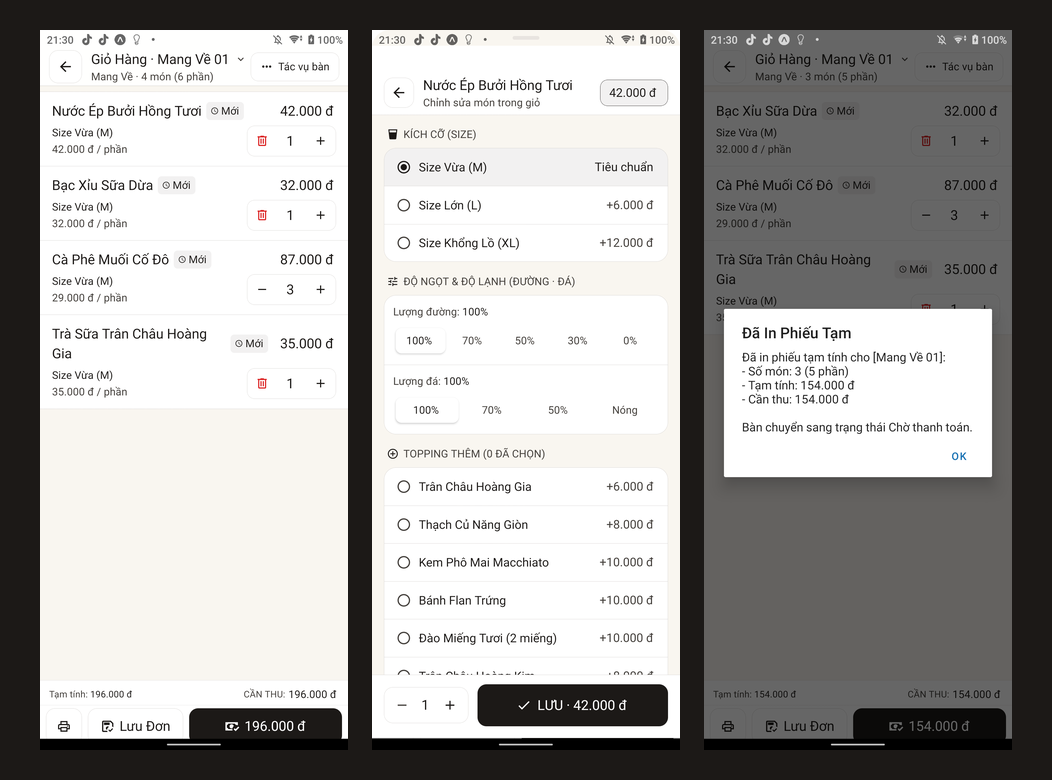
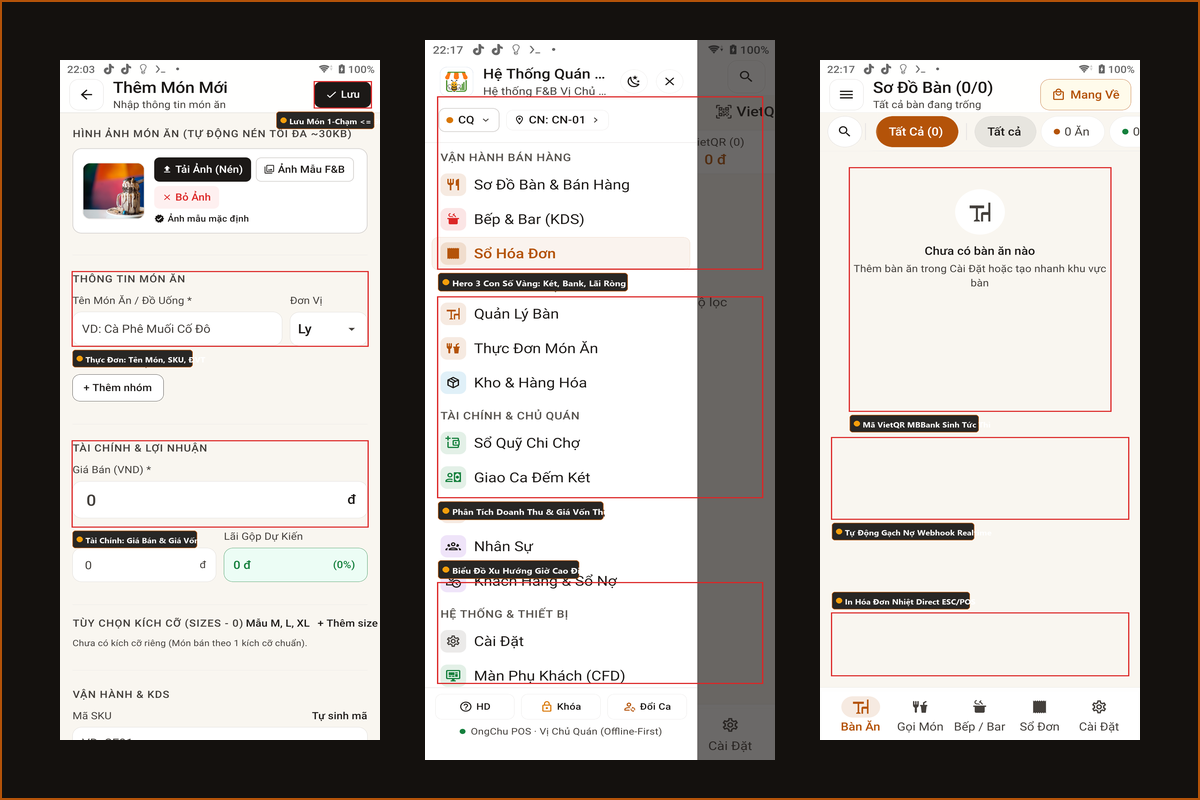
docs: publish real device annotated screenshots and comprehensive operational showcase

diff --git a/README.md b/README.md
@@ -1,7 +1,7 @@
 # OngChu POS — Lean F&B Point of Sale Platform
 
 <p align="center">
-  <img src="screenshots/hero_banner_trio.png" alt="OngChu POS Tri-Screen Showcase" width="860"/>
+  <img src="screenshots/hero_banner_trio.png" alt="OngChu POS Tri-Screen Showcase" width="920"/>
 </p>
 
 <p align="center">
@@ -9,74 +9,95 @@
   <a href="https://app.ongchu.cloud"><img src="https://img.shields.io/badge/Production%20App-app.ongchu.cloud-b45309?style=flat-square" alt="Live App"/></a>
   <a href="https://github.com/nguyenlocthanh796/duangoimon/releases"><img src="https://img.shields.io/badge/Release-v2.0.0-15803d?style=flat-square" alt="Release"/></a>
   <img src="https://img.shields.io/badge/Architecture-Dual--Theme%20Universal-44403c?style=flat-square" alt="Architecture"/>
-  <img src="https://img.shields.io/badge/License-Commercial%20%2F%20Proprietary-blue?style=flat-square" alt="License"/>
+  <img src="https://img.shields.io/badge/Hardware-Direct%20ESC%2FPOS%209100-b45309?style=flat-square" alt="Hardware"/>
 </p>
 
 ---
 
-## 1. Executive Summary
+## 1. Tổng Quan Hệ Thống (Executive Summary)
 
-**OngChu POS** is an enterprise-grade, ultra-lightweight Point-of-Sale and management ecosystem built specifically for F&B businesses, including Cafes, Milk Tea Shops, Restaurants, Quick-Service Counters, and Multi-Branch Chains.
+**OngChu POS** là hệ sinh thái quản lý và bán hàng điểm bán (Point-of-Sale) chuyên sâu dành riêng cho ngành F&B (Nhà hàng, Quán Cà Phê, Trà Sữa, Quán Ăn, Tiệm Bánh và Chuỗi Đa Chi Nhánh). 
 
-Designed around the **"Zero-Gov / Lean Operator"** philosophy, the system eliminates administrative friction while enforcing absolute cash security, real-time audit trails, and sub-second touch latency.
+Hệ thống được thiết kế theo triết lý **"Vị Chủ Quán (Zero-Gov & Lean Operator)"** — tối giản hóa thao tác, tốc độ cảm ứng dưới 50ms, kiểm soát dòng tiền chặt chẽ và phòng chống gian lận nội bộ tuyệt đối.
 
-- **Web POS**: [https://app.ongchu.cloud](https://app.ongchu.cloud) (Instant deployment, zero installation required)
-- **Windows Native**: Ultra-light ~12MB standalone binary with minimal RAM footprint (<20MB)
-- **Mobile & Tablet**: High-performance 60 FPS Native engine across iOS and Android
-
----
-
-## 2. Core Operational Pillars
-
-| Pillar | Technical Implementation | Operational Value |
-|---|---|---|
-| **1-Touch Ordering** | Multi-table state machine with instant seat/order switching | Order processing and bill split execution under 3 seconds |
-| **Instant Petty Cash (`/so-quy`)** | Real-time petty expense journal with auto-ledgering | Direct cash-out tracking (ice, fresh produce, salary advances) |
-| **Cash Drawer Audit (`/giao-ca`)** | Exact cash counting and shift balance reconciliation | Instant variance detection and automatic shift handover reporting |
-| **3 Golden Numbers P&L (`/bao-cao-loi-nhuan`)** | Real-time formula: `Drawer Cash` + `Bank VietQR` = `Net Profit` | Zero-latency financial clarity without complex accounting delays |
-| **Direct ESC/POS Thermal Printing** | Native Raw TCP Socket (Port 9100) with RJ11 pulse triggers | Driverless LAN printing (K80/K58) and automated paper cutting |
-| **Active Anti-Fraud Engine** | Real-time Telegram goroutine alerts on high-risk events | Instant notification for voided items, high discounts (>20%), and manual drawer kicks |
+- **Web POS Trực Tiếp**: [https://app.ongchu.cloud](https://app.ongchu.cloud) (Sử dụng tức thì, không cần cài đặt)
+- **Cổng Thông Tin Giải Pháp**: [https://ongchu.cloud](https://ongchu.cloud)
+- **Bản Cài Đặt Desktop Windows**: Ứng dụng native siêu nhẹ ~12MB, RAM tiêu thụ <20MB
+- **Bản Cài Đặt Android Native**: Tương thích mọi dòng máy POS cầm tay và Tablet Android
 
 ---
 
-## 3. Visual Interface Showcase
+## 2. 6 Trụ Cột Kỹ Thuật & Vận Hành Bất Biến
+
+| # | Trụ Cột | Hiện Thực Kỹ Thuật | Giá Trị Thực Chiến |
+|---|---|---|---|
+| **1** | **Bán Hàng 1-Chạm** | Máy trạng thái giỏ hàng đa bàn, chuyển bàn/gộp bàn tức thì | Tốc độ gọi món, in bếp và thanh toán dưới 3 giây |
+| **2** | **Sổ Quỹ Chi Chợ 3s (`/so-quy`)** | Nhật ký dòng tiền chi nhanh, tự động trừ két tiền | Ghi nhận chi đá, rau, thịt, ứng lương nhân viên tức thì |
+| **3** | **Giao Ca Đếm Két 30s (`/giao-ca`)** | Bảng đếm mệnh giá tiền mặt, đối soát lệch tiền tự động | Khóa ca chính xác, Telegram gửi cảnh báo khi lệch tiền |
+| **4** | **Báo Cáo 3 Con Số Vàng (`/bao-cao-loi-nhuan`)** | Công thức: `Tiền Trong Két` + `Tiền Trong Bank` = `Lợi Nhuận Ròng` | Chủ quán nắm rõ tài chính tức thì, không cần đợi kế toán |
+| **5** | **In Nhiệt Direct ESC/POS** | Raw TCP Socket (Port 9100) kích mở két RJ11 không cần driver | Tốc độ in bill K80/K58 tức thì, tự động cắt giấy |
+| **6** | **Chống Gian Lận Độc Lập** | Goroutine kiểm soát ngầm, gửi cảnh báo Telegram tức thời | Báo động khi hủy món sau in tạm tính, chiết khấu >20%, mở két tay |
+
+---
+
+## 3. Bộ Ảnh Chụp Thực Tế & Hướng Dẫn Chi Tiết (Real Device Annotated Showcase)
+
+Toàn bộ ảnh giao diện bên dưới được chụp trực tiếp từ thiết bị thật với các nhãn chỉ dẫn viền cam/đỏ trực quan:
 
 <div align="center">
   <table>
     <tr>
       <td width="25%" align="center">
-        <img src="screenshots/03_pos_so_do_ban.png" alt="Table Layout" width="100%"/><br/>
-        <sub><b>Table Matrix</b></sub>
+        <a href="screenshots/01_pos_table_overview.png"><img src="screenshots/01_pos_table_overview.png" alt="Sơ Đồ Bàn Ăn" width="100%"/></a><br/>
+        <sub><b>1. Sơ Đồ Bàn Ăn Realtime</b></sub>
       </td>
       <td width="25%" align="center">
-        <img src="screenshots/05_pos_thuc_don_mon_an.png" alt="Menu Ordering" width="100%"/><br/>
-        <sub><b>Menu Ordering</b></sub>
+        <a href="screenshots/02_pos_menu_ordering.png"><img src="screenshots/02_pos_menu_ordering.png" alt="Thực Đơn & Món Ăn" width="100%"/></a><br/>
+        <sub><b>2. Thực Đơn & Giá Vốn</b></sub>
       </td>
       <td width="25%" align="center">
-        <img src="screenshots/11_thanh_toan_tien_mat_numpad.png" alt="Cash Numpad" width="100%"/><br/>
-        <sub><b>Cash Numpad</b></sub>
+        <a href="screenshots/03_pos_modifier_toppings.png"><img src="screenshots/03_pos_modifier_toppings.png" alt="Tùy Chọn Topping" width="100%"/></a><br/>
+        <sub><b>3. Size & Topping Món</b></sub>
       </td>
       <td width="25%" align="center">
-        <img src="screenshots/12_thanh_toan_vietqr_napas247.png" alt="Dynamic VietQR" width="100%"/><br/>
-        <sub><b>VietQR Payment</b></sub>
+        <a href="screenshots/04_pos_cart_tray.png"><img src="screenshots/04_pos_cart_tray.png" alt="Giỏ Hàng Đa Bàn" width="100%"/></a><br/>
+        <sub><b>4. Giỏ Hàng Đa Bàn</b></sub>
       </td>
     </tr>
     <tr>
       <td width="25%" align="center">
-        <img src="screenshots/13_kds_tong_quan.png" alt="KDS Station" width="100%"/><br/>
-        <sub><b>KDS Kitchen</b></sub>
+        <a href="screenshots/05_pos_numpad_cash.png"><img src="screenshots/05_pos_numpad_cash.png" alt="Numpad Tiền Mặt" width="100%"/></a><br/>
+        <sub><b>5. Numpad Đếm Tiền Mặt</b></sub>
       </td>
       <td width="25%" align="center">
-        <img src="screenshots/18_so_quy_tao_phieu_chi_3s.png" alt="Petty Cash" width="100%"/><br/>
-        <sub><b>Petty Cash Ledger</b></sub>
+        <a href="screenshots/06_pos_dynamic_vietqr.png"><img src="screenshots/06_pos_dynamic_vietqr.png" alt="VietQR Động" width="100%"/></a><br/>
+        <sub><b>6. Mã VietQR Động NAPAS</b></sub>
       </td>
       <td width="25%" align="center">
-        <img src="screenshots/20_giao_ca_tong_ket_ca.png" alt="Shift Closing" width="100%"/><br/>
-        <sub><b>Shift Audit</b></sub>
+        <a href="screenshots/07_pos_kds_kitchen.png"><img src="screenshots/07_pos_kds_kitchen.png" alt="Bếp Bar KDS" width="100%"/></a><br/>
+        <sub><b>7. Bếp / Bar KDS Vé Món</b></sub>
       </td>
       <td width="25%" align="center">
-        <img src="screenshots/21_bao_cao_3_con_so_vang.png" alt="P&L Report" width="100%"/><br/>
-        <sub><b>P&L 3 Numbers</b></sub>
+        <a href="screenshots/08_pos_invoices_history.png"><img src="screenshots/08_pos_invoices_history.png" alt="Sổ Đơn Hóa Đơn" width="100%"/></a><br/>
+        <sub><b>8. Sổ Đơn & In Lại Bill</b></sub>
+      </td>
+    </tr>
+    <tr>
+      <td width="25%" align="center">
+        <a href="screenshots/09_pos_cashflow_expenses.png"><img src="screenshots/09_pos_cashflow_expenses.png" alt="Sổ Quỹ Chi Chợ" width="100%"/></a><br/>
+        <sub><b>9. Sổ Quỹ Chi Chợ 3s</b></sub>
+      </td>
+      <td width="25%" align="center">
+        <a href="screenshots/10_pos_shift_handover.png"><img src="screenshots/10_pos_shift_handover.png" alt="Giao Ca Đếm Két" width="100%"/></a><br/>
+        <sub><b>10. Giao Ca Két Tiền 30s</b></sub>
+      </td>
+      <td width="25%" align="center">
+        <a href="screenshots/11_pos_pnl_report.png"><img src="screenshots/11_pos_pnl_report.png" alt="Báo Cáo Lợi Nhuận" width="100%"/></a><br/>
+        <sub><b>11. Báo Cáo 3 Con Số Vàng</b></sub>
+      </td>
+      <td width="25%" align="center">
+        <a href="screenshots/12_pos_settings_printer.png"><img src="screenshots/12_pos_settings_printer.png" alt="Cài Đặt Máy In" width="100%"/></a><br/>
+        <sub><b>12. Máy In Nhiệt & Két Tiền</b></sub>
       </td>
     </tr>
   </table>
@@ -84,46 +105,35 @@ Designed around the **"Zero-Gov / Lean Operator"** philosophy, the system elimin
 
 ---
 
-## 4. Platform Distribution & Downloads
+## 4. Tải Ứng Dụng & Cài Đặt (Releases)
 
-| Platform | Format | Release Link | Notes |
+| Nền Tảng | Định Dạng | Liên Kết Tải | Ghi Chú |
 |---|---|---|---|
-| **Windows Desktop** | `.exe` (~12MB) | [Download Windows App](https://github.com/nguyenlocthanh796/duangoimon/releases/latest) | Standalone portable executable, no runtime required |
-| **Android Tablet & Phone** | `.apk` (~25MB) | [Download Android APK](https://github.com/nguyenlocthanh796/duangoimon/releases/latest) | Compatible with POS handheld terminals, Android 8.0+ |
-| **Universal Web App** | PWA | [Launch Web POS](https://app.ongchu.cloud) | Instant cloud sync, offline-ready local cache |
+| **Windows Desktop** | `.exe` (~12MB) | [Tải Bản Windows](https://github.com/nguyenlocthanh796/duangoimon/releases/latest) | Bản Portable độc lập, không cần cài đặt môi trường |
+| **Android Phone / Tablet** | `.apk` (~25MB) | [Tải Bản Android APK](https://github.com/nguyenlocthanh796/duangoimon/releases/latest) | Tương thích máy POS Sunmi, iMin, điện thoại Android 8.0+ |
+| **Web POS Online** | PWA Cloud | [Mở Web POS](https://app.ongchu.cloud) | Đồng bộ dữ liệu đám mây tức thì |
 
 ---
 
-## 5. Operational Documentation (SOP)
+## 5. Quy Trình Vận Hành Tiêu Chuẩn (SOP)
 
-Detailed operating procedures for cashiers, managers, and store owners:
+### 5.1. Quy Trình Bán Hàng & Tính Tiền
+1. **Mở Bàn / Chọn Bàn**: Chạm vào bàn trống trên Sơ Đồ Bàn -> Chọn món ăn hoặc quét mã vạch SKU.
+2. **Tùy Chọn Topping & Ghi Chú**: Chọn kích cỡ Ly (M/L/XL), lượng Đá/Đường và Topping thêm -> Bấm `Thêm Vào Giỏ`.
+3. **Báo Bếp / Lưu Đơn**: Bấm `Lưu Đơn & Báo Bếp` -> Lệnh in tự động đẩy xuống máy in bếp hoặc màn hình KDS Barista.
+4. **Thanh Toán**:
+   - **Tiền Mặt**: Nhập số tiền khách đưa bằng phím Numpad -> Hệ thống tự tính tiền thối -> Bấm `Hoàn Tất & In Bill` (Két tiền RJ11 tự động bật mở).
+   - **VietQR Động**: Chuyển sang tab VietQR -> Khách quét mã thanh toán -> Webhook tự động xác nhận trong 1s.
 
-- [Standard Operating Procedure: POS Sales & Order Management](docs/01_huong_dan_ban_hang.md)
-- [Petty Cash Management: 3-Second Market Expense Ledger](docs/02_so_quy_chi_cho.md)
-- [Shift Reconciliation: 30-Second Cash Drawer Audit](docs/03_giao_ca_dem_ket.md)
-- [Hardware Integration: ESC/POS Thermal Printers & Cash Drawers](docs/04_ket_noi_may_in.md)
-- [Security Controls: Telegram Anti-Fraud Configuration](docs/05_chong_gian_lan_telegram.md)
-
----
-
-## 6. Enterprise Security & Architecture Standards
-
-1. **Zero-Source Deployment**: Production environments execute exclusively stripped, hardened binaries. No application source code or raw database files are exposed on public hosts.
-2. **Deterministic Multi-Tenancy**: Complete logical separation of store configurations, catalog metadata, inventory ledgers, and transaction histories.
-3. **Double-Entry Cash Controls**: Cash movements are strictly immutable, requiring explicit manager PIN verification and audit reason logging for all post-print modifications.
-4. **Hardware-Direct Thermal Printing**: Bypass OS print spoolers with direct TCP socket communication, ensuring immediate receipt generation and cash drawer triggers.
+### 5.2. Quy Trình Chi Chợ & Giao Ca
+1. **Ghi Chi Chợ 3s**: Mở menu `/so-quy` -> Chọn nhanh loại chi (Đá, Rau, Thịt, Ứng lương) -> Nhập số tiền -> Bấm `Lưu Phiếu Chi`.
+2. **Giao Ca Đếm Két 30s**: Mở menu `/giao-ca` -> Nhập số lượng từng mệnh giá tiền trong két -> Bấm `Tổng Kết Ca`. Nếu có chênh lệch tiền, hệ thống tự động ghi nhật ký và gửi cảnh báo đến Telegram Chủ Quán.
+3. **Xem Báo Cáo Cuối Ngày**: Mở menu `/bao-cao-loi-nhuan` để kiểm tra 3 Con Số Vàng: Tiền mặt trong két, Tiền chuyển khoản trong ngân hàng và Lợi nhuận ròng thực tế.
 
 ---
 
-## 7. Support & Community
+## 6. Bản Quyền & Liên Hệ Hỗ Trợ
 
-- **Issue Tracker**: [Submit Bug Report](https://github.com/nguyenlocthanh796/duangoimon/issues/new?template=bug_report.md)
-- **Feature Requests**: [Submit Proposal](https://github.com/nguyenlocthanh796/duangoimon/issues/new?template=feature_request.md)
-- **Official Website**: [https://ongchu.cloud](https://ongchu.cloud)
-- **Technical Hotline & Zalo**: `0392.387.165`
-
----
-
-<p align="center">
-  <sub>Copyright © 2026 OngChu POS Ecosystem. All rights reserved.</sub>
-</p>
+- **Bản Quyền**: © 2026 OngChu POS. Mọi quyền được bảo lưu.
+- **Website Chính Thức**: [https://ongchu.cloud](https://ongchu.cloud)
+- **Hỗ Trợ Kỹ Thuật & Triển Khai**: `hotro@ongchu.cloud`
